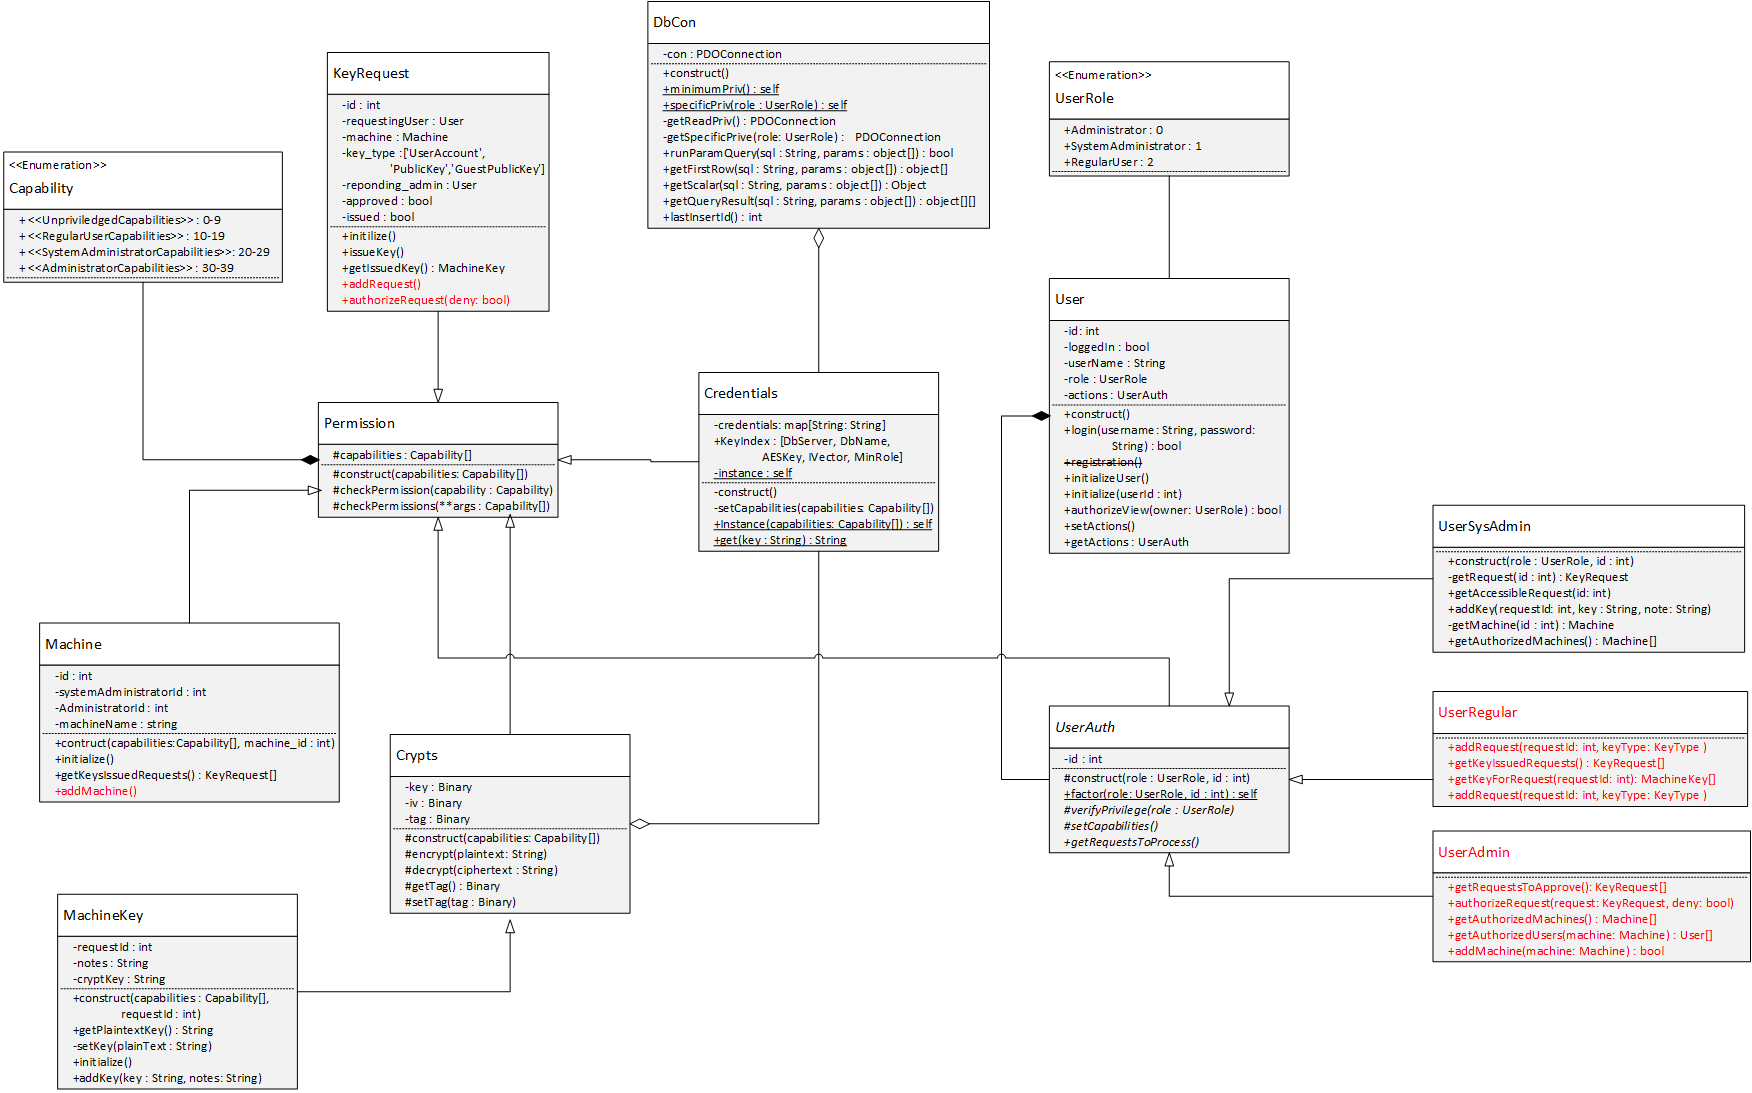
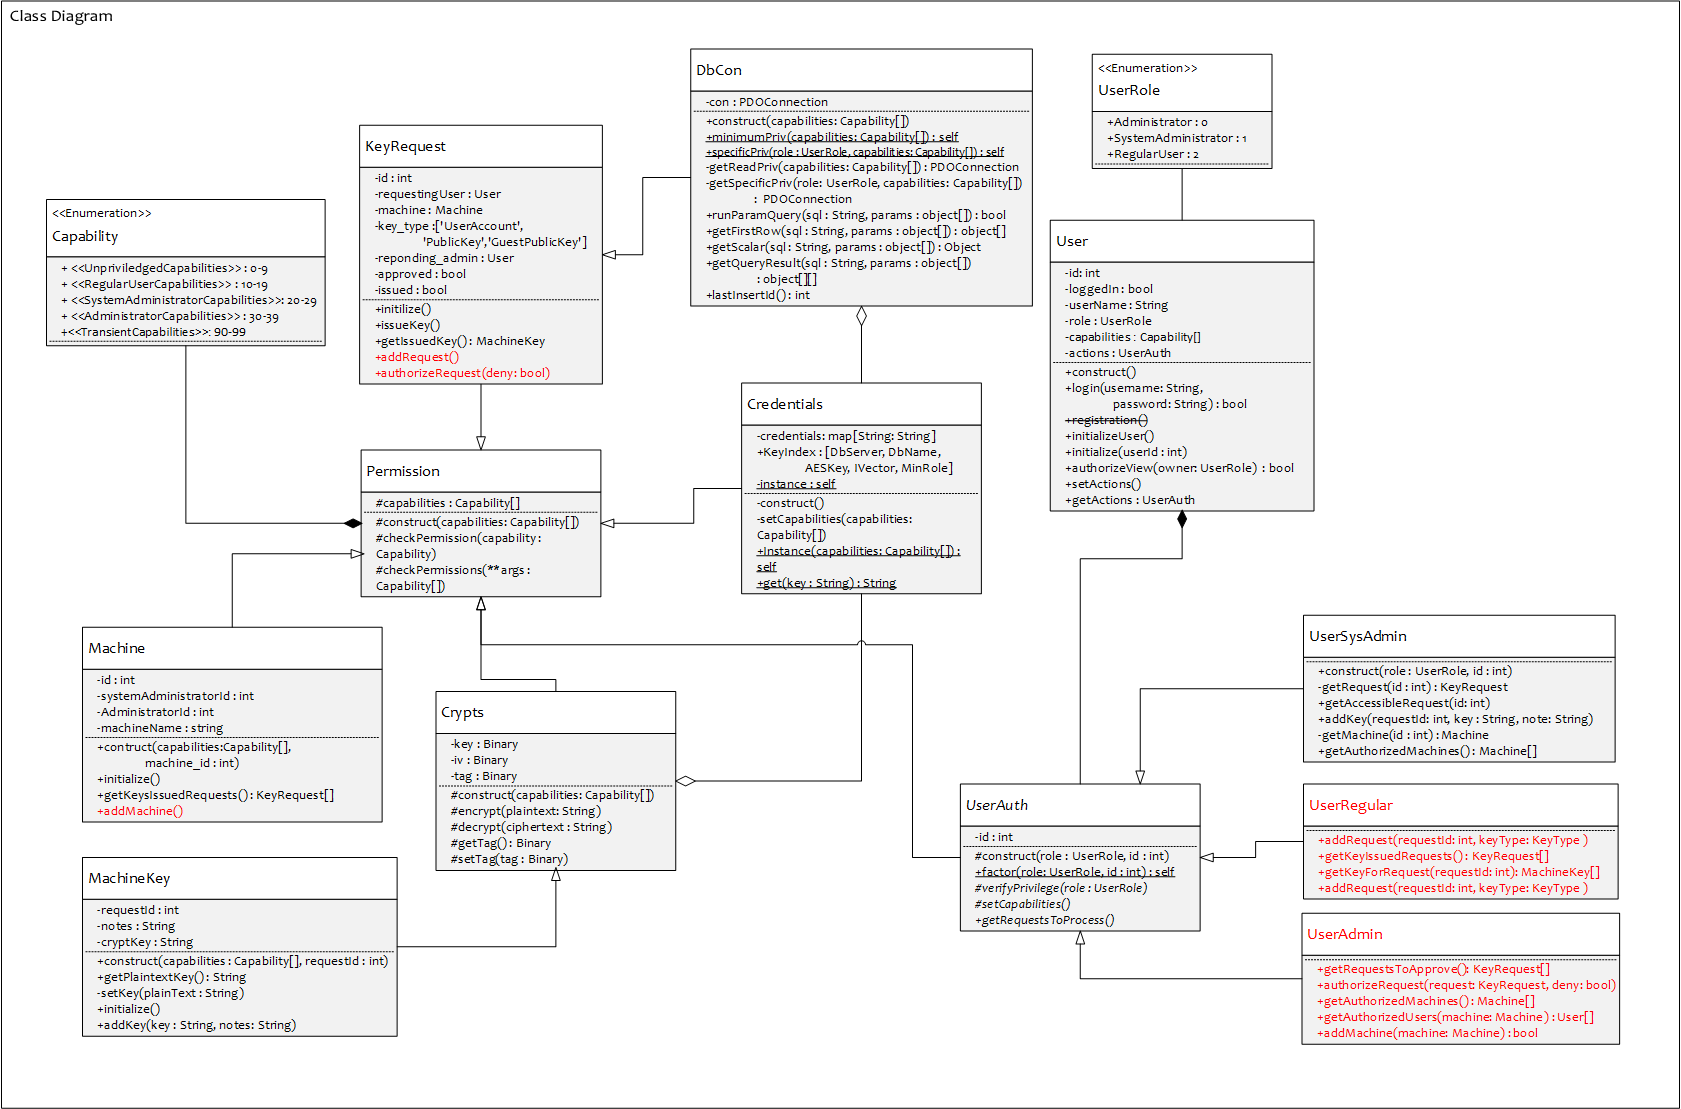
Definition Update

diff --git a/class/Capability.php b/class/Capability.php
@@ -3,30 +3,32 @@
 final class Capability
 {
     // EVERYONE
-    const DB_READ = -1;
-    const DB_WRITE = 9;
-    const VIEW_MACHINES = 0;
+    const DB_READ = 0;
+    const VIEW_MACHINES = 1;
 
     //ADMIN & SYSADMIN
-    const VIEW_REQUESTS = 1;
+    const VIEW_REQUESTS = 2;
 
     // USER
     const ADD_REQUEST = 10;
     const VIEW_AUTHORIZED_REQUESTS = 11;
     const VIEW_KEY_FOR_REQUEST = 12;
-    const DECRYPT_AUTHORIZED_KEY = 13;
 
     // SYSADMIN
     const VIEW_APPROVED_REQUESTS = 20;
     const VIEW_MACHINE_AUTHORIZED_KEYS = 21;
-    const ENCRYPT_KEY = 22;
-    const ADD_KEY = 23;
-    const ISSUE_KEY = 24;
+    const ADD_KEY = 22;
+    const ISSUE_KEY = 23;
 
     // ADMIN
     const ADD_MACHINE = 30;
     const VIEW_MACHINE_AUTHORIZED_USERS = 31;
     const APPROVE_REQUEST = 32;
+
+    // TRANSIENT
+    const DB_WRITE = 97;
+    const ENCRYPT_KEY = 98;
+    const DECRYPT_AUTHORIZED_KEY = 99;
 
 }
 

diff --git a/README.md b/README.md
@@ -1,6 +1,6 @@
 # KeyDistributionSystem
 
-**Do not use the Temp branch except for browsing and code extraction. <br> Set up notes for Windows and Linux are at the end of this ReadMe.**
+**Set up notes for Windows and Linux are at the end of this ReadMe.**
 
 ## Coding Notes
 
@@ -25,10 +25,10 @@
 ### Class structure
 
 #### Coding Instructions
-* Public functions and variables, refactoring of JK's current classes to be done.
 * MVC architecture. Views in outer folders. Model in class folder. Control in scripts folder
 * UserAuth inheritance checks according to the user role whether the child class (which can actually perform functions) can be instantiated
 * Capabilities class holds what functions can be performed by which user. These are added in UserAuth sublcass to "capabilities" property. 
+* Some capabilities are given on the go, such as DB Write access and Key encrypting and decrypting capabilities
 * Capabilities property is passed to object functions (KeyRequest, Key add/edit/view etc) when called.
 * Each object function checks the Capabilities property whether it is allowed. (Enum value should be in Capabilities array)
 
